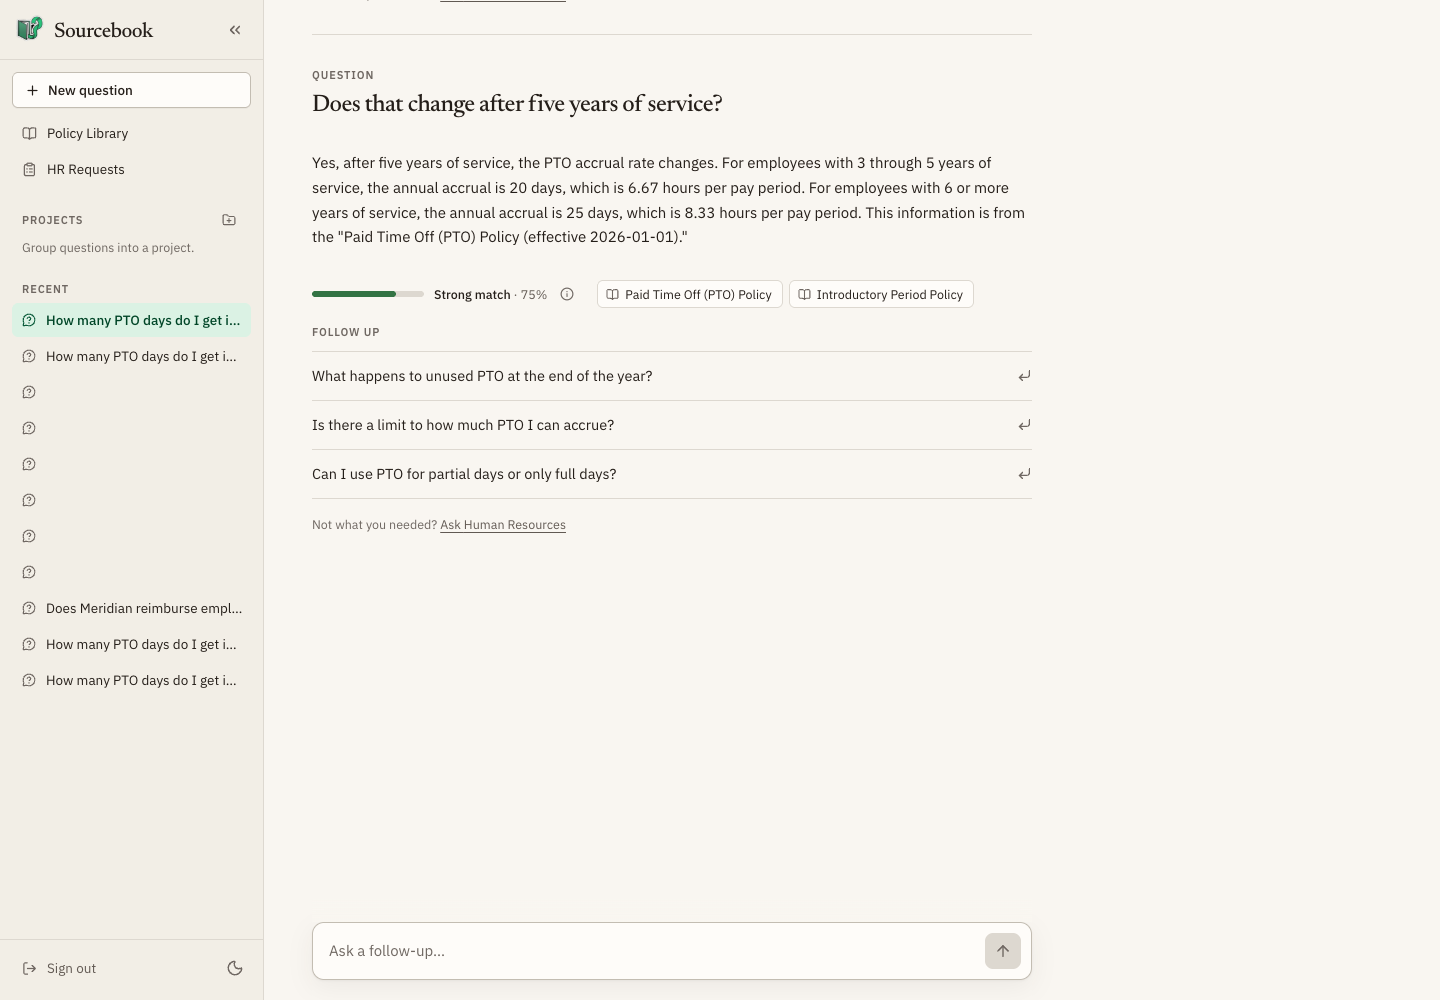
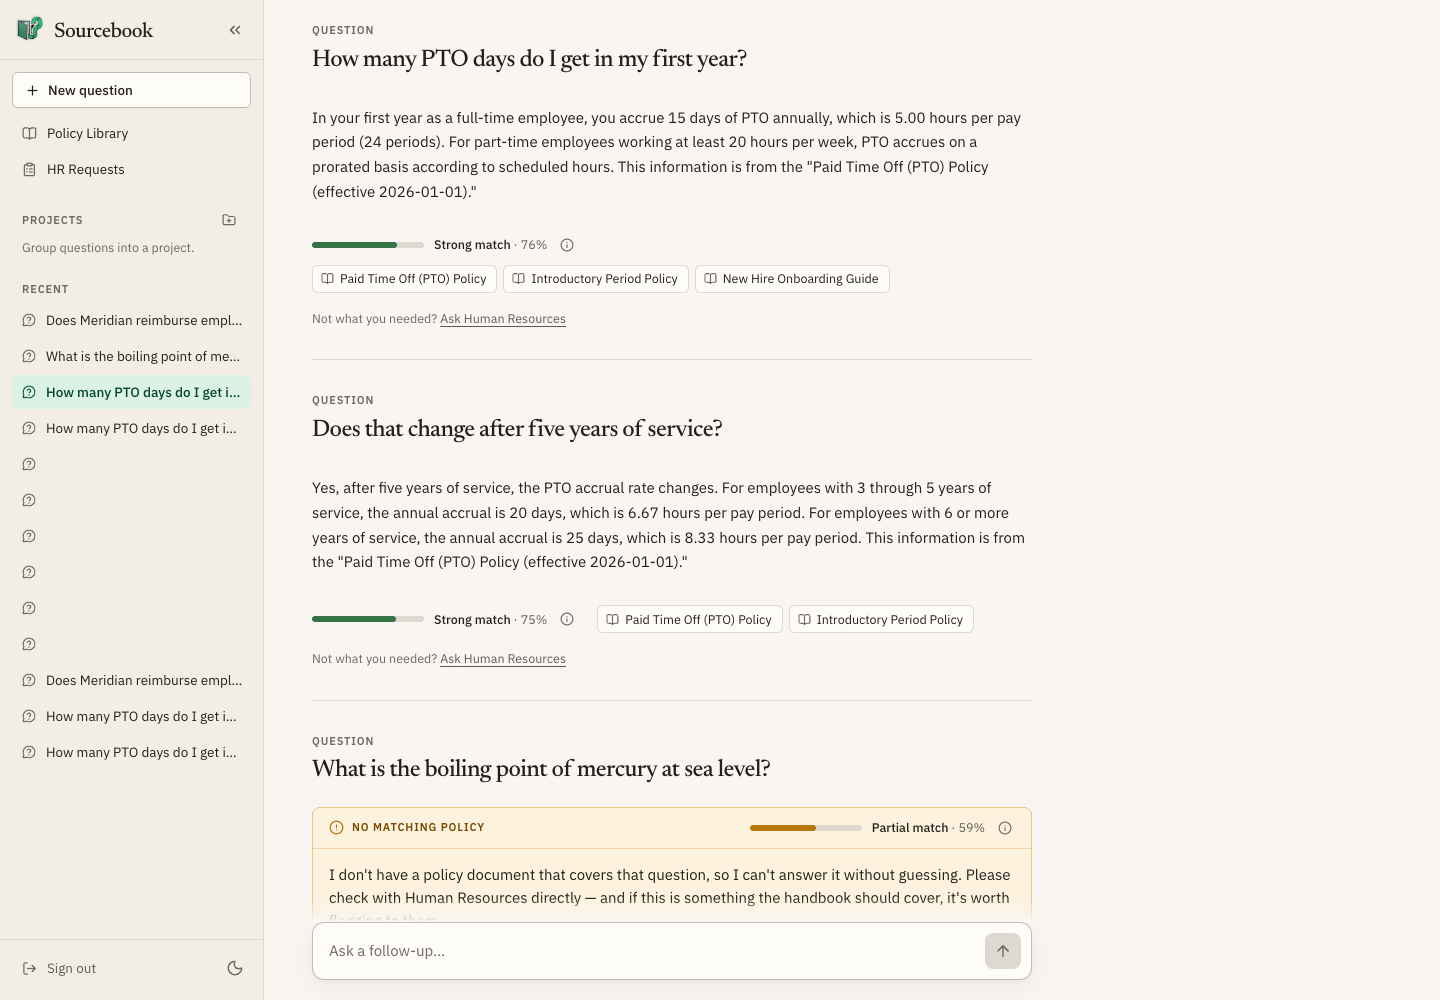
docs: retake the after-reload screenshot
The first 06-after-reload.png was byte-identical to 05-follow-up.png and
showed only the second turn, so it could not show both turns restored. The
retake reloads the pass's own conversation (navigation type "reload", text
identical before and after) and is scrolled to the top so every turn and
its chips are visible. The handoff row and the evidence list say why it was
retaken and when.

Refs #203

diff --git a/docs/releases/v0.2.0/handoff.md b/docs/releases/v0.2.0/handoff.md
@@ -101,7 +101,7 @@ escalations are stored and nothing is delivered, and the HR Requests page says
 | Ask a covered question | streamed answer with at least one cited source and a score | Pass. "How many PTO days do I get in my first year?" answered 15 days a year, 5.00 hours per pay period, at "Strong match · 76%" with three source chips. `03` |
 | Open a cited source | the source pane shows the whole document | Pass. The Paid Time Off (PTO) Policy chip opened all 5 passages in the source pane, with a link to the Policy Library. `04` |
 | Ask a follow-up in the same conversation | the answer uses the history; no cache badge | Pass. "Does that change after five years of service?" answered with the 3-to-5-year and 6-plus-year accrual rows. The web app no longer shows a cache badge on any answer. `05` |
-| Reload the page | the conversation and its sources are restored from history | Pass. Same URL, both turns and their chips back. `06` |
+| Reload the page | the conversation and its sources are restored from history | Pass. The browser reported the navigation as a reload, the conversation text after it matched the text before it exactly, and every turn came back with its score and chips. The first screenshot of this step was byte-identical to `05` and showed only the second turn, so it proved nothing. `06` was retaken at 22:04 UTC on the same conversation and the same deployed containers, scrolled to the top. By then the conversation also held the #189 turn from the next step |
 | Ask an uncovered question as a follow-up (#189) | refusal card, not an answer with unrelated chips | Pass. "What is the boiling point of mercury at sea level?" inside the PTO conversation scored 59% and got the refusal card. In the alpha it scored 69% there and was answered. `07` |
 | Ask an uncovered question in a new conversation | refusal card with the Ask Human Resources button | Pass. The same question, 59%, refusal card with the button. `08` |
 | Ask `unanswerable_01`, "Does Meridian reimburse employee pet insurance?" (#192) | refusal card, not a prose decline with chips | Pass, with a defect. The refusal card came back with no chips. It also shows "Strong match · 79%" under the "No matching policy" heading and says "Nothing indexed came close enough to answer from." The coverage judge refused it after the cosine gate cleared, so both the badge and that sentence are wrong for this kind of refusal. `09` |

diff --git a/docs/releases/v0.2.0/evidence/README.md b/docs/releases/v0.2.0/evidence/README.md
@@ -15,7 +15,7 @@ sessions, which the script creates without a title.
 | `03-answer-with-sources.png` | a covered question answered at "Strong match · 76%" with three source chips |
 | `04-cited-source-open.png` | the cited Paid Time Off policy open in the source pane |
 | `05-follow-up.png` | a follow-up answered against the conversation history |
-| `06-after-reload.png` | both turns and their sources restored after a reload |
+| `06-after-reload.png` | the same conversation after a reload, scrolled to the top: all three turns (including the #189 turn from step 07) with their scores and chips. Retaken at 22:04 UTC because the first capture was identical to `05` |
 | `07-uncovered-follow-up.png` | an uncovered question asked as a follow-up refused at 59% (#189) |
 | `08-refusal.png` | the same question refused in a new conversation |
 | `09-pet-insurance-refusal.png` | `unanswerable_01` refused by the coverage judge (#192), with the misleading "Strong match · 79%" badge |
